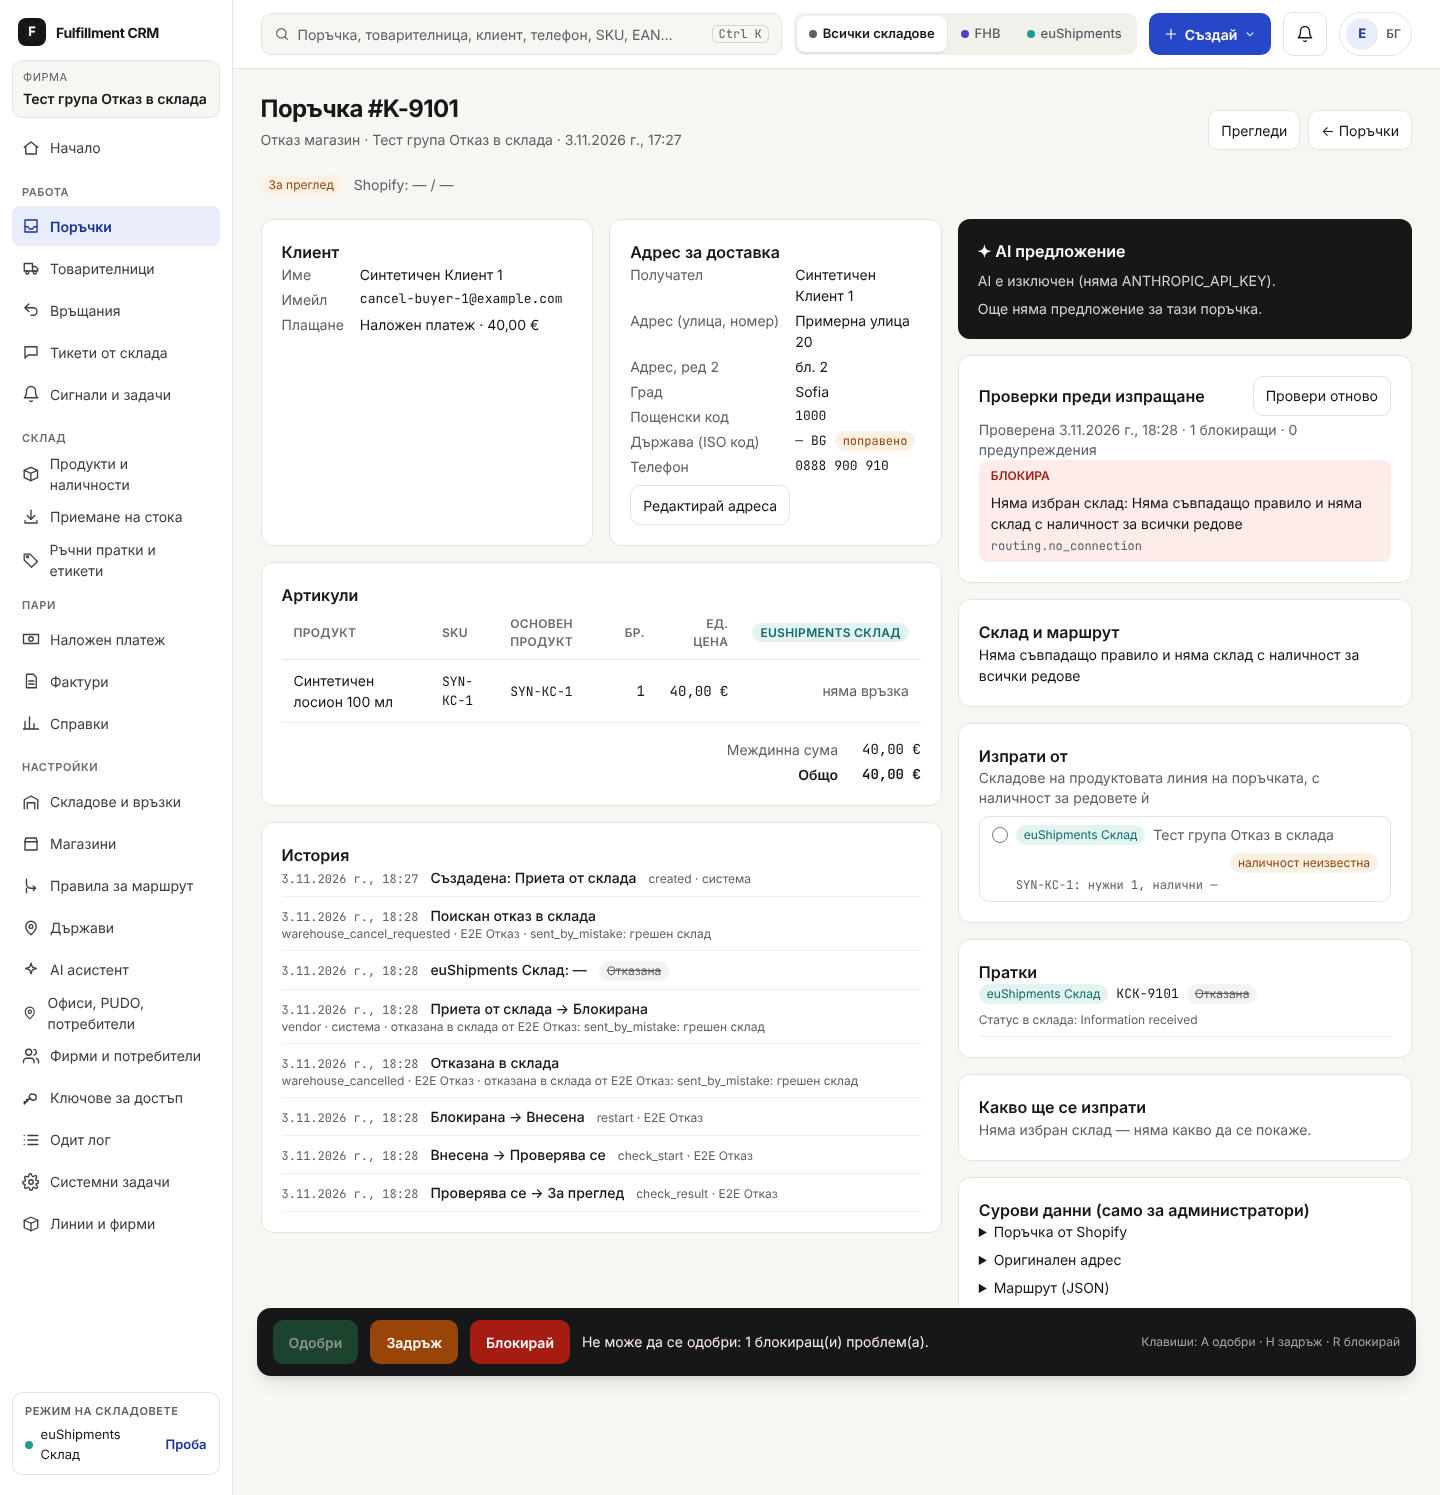
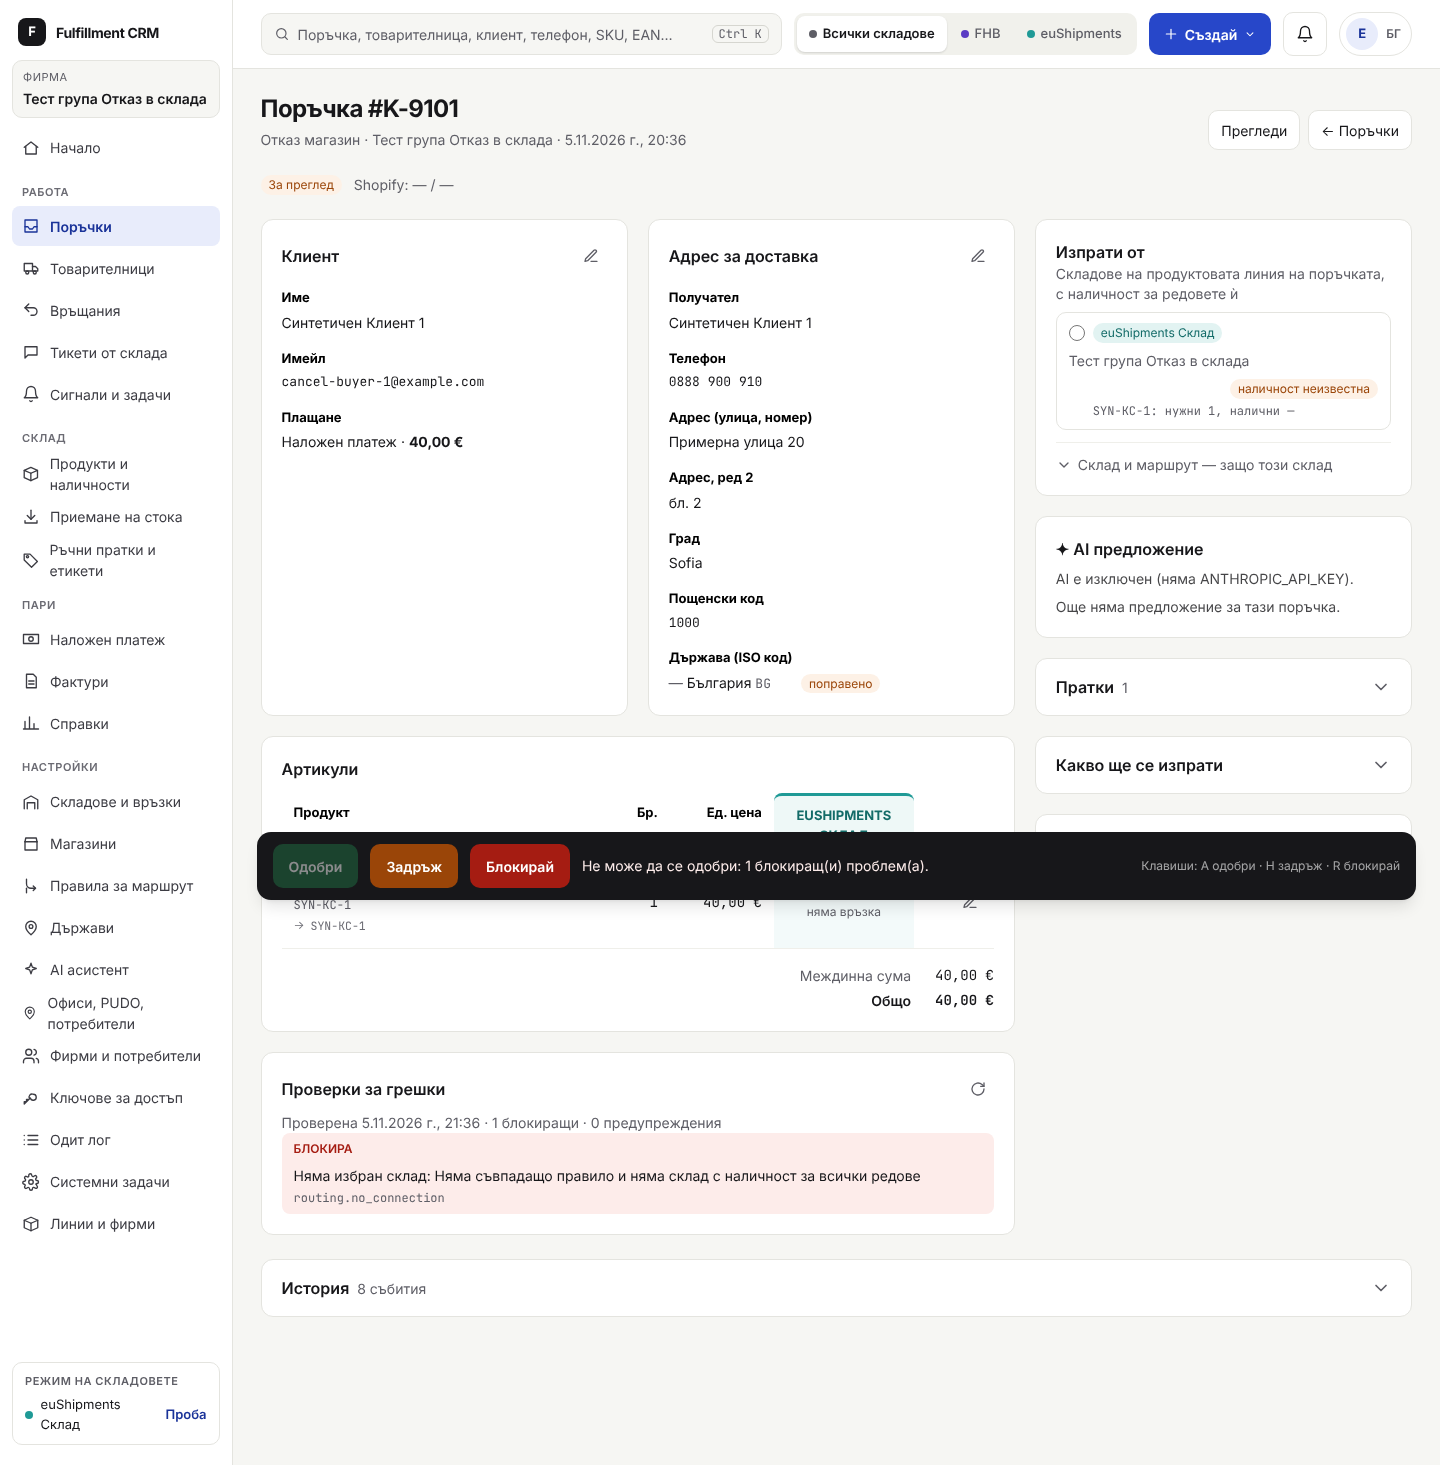
e2e: open the folded order sections before acting inside them
Claude-Session: https://claude.ai/code/session_01F3DAgXjb9pLKNH5LgMk1nD

diff --git a/tests/e2e/review.spec.ts b/tests/e2e/review.spec.ts
@@ -34,9 +34,12 @@ test("review: fix the address with live validation, approve, hold, block; review
   await expect(page.getByRole("table", { name: "Артикули" })).toContainText("6 за продажба");
   await expect(page.getByText("Сурови данни (само за администратори)")).toBeVisible();
   // What will be sent (DESIGN principle 4): with a hard finding the body cannot be built yet.
-  await expect(page.getByRole("heading", { name: "Какво ще се изпрати" })).toBeVisible();
+  // Folded sections (owner redesign 2026-11-05): "What will be sent" and the raw payloads open on click.
+  await page.getByTestId("fold-payload").locator("summary").click();
+  await expect(page.getByTestId("fold-payload")).toContainText("Какво ще се изпрати");
   await expect(page.getByTestId("payload-preview-blocked")).toContainText("FHB Преглед");
   // Raw payloads load only when a section is opened.
+  await page.getByTestId("fold-raw").locator("summary").click();
   await page.getByText("Оригинален адрес", { exact: true }).click();
   await expect(page.locator("pre").filter({ hasText: '"countryCode"' }).first()).toBeVisible({
     timeout: 30_000,

diff --git a/tests/e2e/cancel-at-warehouse.spec.ts b/tests/e2e/cancel-at-warehouse.spec.ts
@@ -41,6 +41,7 @@ test("Откажи в склада: DRY_RUN records it; the confirmed cancel blo
   await expect(page.getByTestId("warehouse-cancel-KCK-9103")).toHaveCount(0);
 
   await openOrder(page, "#K-9101");
+  await page.getByTestId("fold-shipments").locator("summary").click();
   const row = page.getByTestId("warehouse-cancel-row-KCK-9101");
   await row.getByTestId("warehouse-cancel-KCK-9101").click();
   const dialog = page.getByRole("dialog", { name: "Отказ на пратката в склада" });

diff --git a/tests/e2e/fulfill.spec.ts b/tests/e2e/fulfill.spec.ts
@@ -57,6 +57,7 @@ test("Shopify write-back: a DRY_RUN record shows the exact fulfillmentCreate dat
   await login(page);
   await page.goto("/orders?tab=all&q=93004");
   await page.getByRole("link", { name: "#93004" }).click();
+  await page.getByTestId("fold-writeback").locator("summary").click();
   const wb = page.locator('[data-testid="writeback"][data-kind="FULFIL"]');
   await expect(wb).toContainText("E2E-TRK-93004", { timeout: 60_000 });
   await expect(wb).toContainText("Изпълнение");

diff --git a/tests/e2e/override.spec.ts b/tests/e2e/override.spec.ts
@@ -79,6 +79,7 @@ test("Пренасочи: cancel at the old warehouse first; only after the conf
   await login(page, OWNER);
   await openOrder(page, "#P-9002");
 
+  await page.getByTestId("fold-shipments").locator("summary").click();
   await expect(page.getByTestId("shipments")).toContainText("Information received");
   await page.getByRole("button", { name: "Пренасочи към друг склад" }).click();
   const form = page.getByRole("form", { name: "Пренасочване" });
